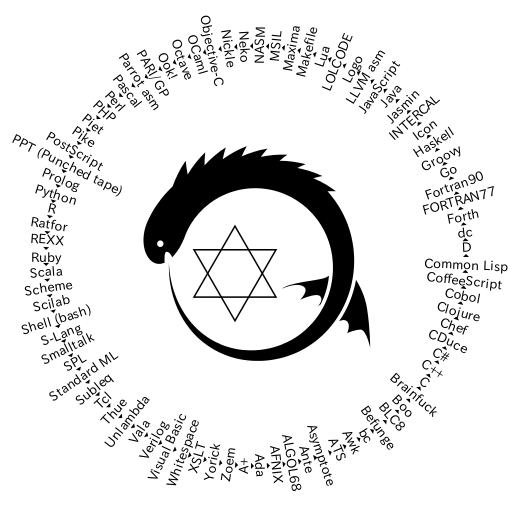
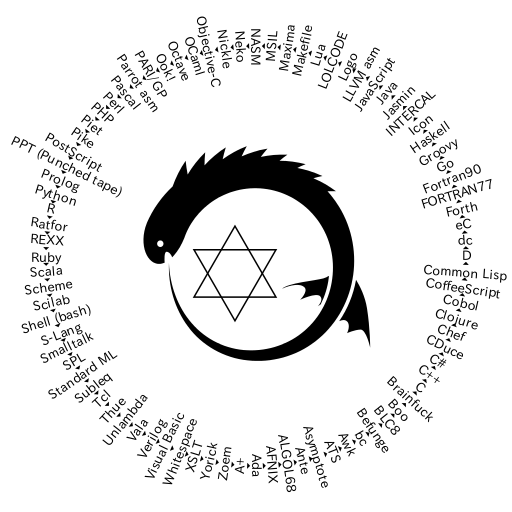
* the 84th language: eC

Changed region(s): [[0.0312, 0.0312, 1.0, 0.9688], [0.125, 0.5312, 0.1562, 0.5625], [0.0625, 0.4375, 0.0938, 0.4688]]

diff --git a/QR.rb b/QR.rb
@@ -17,48 +17,48 @@ g~dish.`n`nServes~1.`n")!~g                                                     
 CATION~DIVISION.""PROGRAM-                                                                       ID.~QR.""PROCEDURE~DIVISION."'DISP
 LA`x59](map~#(str"~~~~^"                                    "(.replac                                e~%1"^"""^"^"")"^"&")(re-seq~#
 ".{1,45}""#{e[%((f=(n)                              ->Array(n+1).jo!~"Y");con                       sole.log("%s",#{V[E[%((H-l!e"#{
-e["import~std.stdio;v                           oid~mX{H#{E["[#{%(~:~A~."#{g*9}"~;                   ~:~B~A~."~WRITE(*,*)'"~A~;~:~C
-~B~T`x59PE~."~'"~CR                         ~;~:~D~S"~#$D"~C~S^"~Z~^"(&"~C~S^"~#{e[%(                  package~ma!;import"fmt";func
-~mX{fmt.Pr!t#{E[%(                        Z'#{e[("ma!=putStr"+E[%(procedure~mX;i:=c:=0;s                :=#{E[%(.class~public~QR`n.
-super~#{$T="java/                       io/Pr!tStream"}`n.method~public~static~ma!([L#{S="               java/lang/"}SJ;)V~;]`n.lim
-it~stack~2`ngets                      tatic~#{S}System/out~L#$T;`nldc~"#{e[%(class~QR{publi               c~static~void~ma!(SJ[]v){
-SJ~c[]=new~SJ[9                      000],y="",z=y,s="#{z=t=(0..r=q=126).map{|n|[n,[]]};a="";              b=->n{a<<(n%78+55)%84+42
-};("s=#{E[%(@s                     =global[#{i=(s=%(PR~ "`x48AI^~1.2~PR~"VISIBLE^~"#{Q["Z"+E[%             (all:`n`t@echo~'#{d["l!e
-l:99999;Z#{E[%                    (.assembly~t{}.metho   d~static~void~MX{.entrypo!t~ldstr"#{e[%            (m:db`x60#{e[s="$Z#{E[%
-(Zf#{E["#impo                    rt"+M["Z_sJ"+E[%(s=t  o  ascii#{E["Z#{E[%(say"#{e["#$D(output);b            eg!~H(#{f((p="eval";%(
-$_="#{s=%(<?p                   hp~function~f($n){re  tur  n~str_repeat("Y",$n);};$f="f";$z=3+$w=            strlen($s=#{V[Q[E["!t~
-mX{H#{E[%((__       __         _______)dup~=/s(|~~~  ~~.~~  ~|)def(#{Q["qr:-H('#{Q[e[%(for~c~!"".j            o!(["say~'%s'^n"%l~fo
-r~l~!#{E[d[%(                 eval$s=%q(#$s)),?']]  }.split  ("^n")]):Z('cat("r=fput(char(%d))^n")'           %ord(c))`nZ('cat("end
-^n")'))],?']}'               ).",B]})                                     {9~7{exch~dup~1~and~79~mu           l~32~add~exch~2~idiv~
-3~1~roll~s~exch        ~2~  !dex~exch~  put~1~s  ub~dup~6~eq{1  ~sub}if  }repeat~s~=~pop~pop}forall~          =~quit)]};return~0;}"
-]],"{$f(",")}"]}       )*3;echo"^x89PNG  ^r^n^  x1a^n";$m="";$t  ="^xc  0^0^xff";for($i=-1;$i<128*$z          ;$m.=$c--?($w-$c||$i>
-$z)&&$i/$z<($c<$w?o   rd($s[(!t)($c/3)])  :$c  --%3+2)?$t[2].$t[  $c%  3%2].$t[$c%3]:"^0^0^0":"^0")$          c=++$i%$z;foreach(arr
-ay("I`x48DR".pack("NNCV", $w+2,128,8,2),"  I  DAT".gzcompress($m)  ,  "IEND")as$d)echo~pack("NA*N",s          trlen($d)-4,$d,crc32(
-$d));?>);(s+N*(-s.size%6) ).unpack("B*")[0   ].K(/.{6}/){n=$&.to_i   ~2;((n+14)/26*6+n+47).chr}}";s|          .|$n=ord$&;substr~unp
-ack(B8,chr$n-!t($n/32)*6- 41),2|eg;Z~pack  "  B*",$_).scan(/[~,-:  A  -z]+|(.)/){p="s++#{$1?"c     h          r~#{$1.ord}+e":$&+?+}
-;"+p};p),1){"'#$s',"}}'')  end."]}"`nend  )]}  ;quit"]};t=num2ce  ll(  b=11-ceil(s/               1          3  ));for~n=1:9m={};fo
-r~i=1:141f=@(x,y,n)repmat( ["Ook"~x~"~O  ok"~y  ~32],[1~abs(n)]  );m(i  )=[f(z=4                  6          ,   63,n)~f(q=z-(i<13)
-*13,q,i-13)~f(33,z,1)~f(63  ,z,n)];end  ;t(x)=m  (diff([0~s(x=  b==n)])  +13);end;Zf("%          %          s     ",t{:}))]]]})+N]}
-;"+N]}`x60`nglobal~_start`n _start:mo                                     v~edx,#{s.si           z          e      }`nmov~ecx,m`nmo
-v~ebx,1`nmov~eax,4`n!t~128`  nmov~ebx,0`nmov~eax,1  `n!t~12  8)]}"call~void~[mscorlib] System.C o          n       sole::Write(sJ)r
-et})]};quit();",?$].K(?'){"'  ^''"}}')].K(/[:"]/,":  ^0"),  /[~Y`t;"(){}`[`]]/]}"~PR~"`x4bT`x4 8          `         x58B`x59E~B`x59
-E)).size+1}x~i8]c"#{s.K(/[^"]  /){"^%`x58"%$&.ord}}^  00"  declare~i32@puts(i8*)def!e~i32@mX{%1          =          call~i32@puts(i
-8*getelementptr([#{i}x~i8]*@s,  i32~0,i32~0))ret~i32~  0  })]};typeof~Z=='function'?Z(s):conso          l           e.log('%s',s)")
-.bytes{|n|r,z=z[n]||(b[r/78];b[   r];q<6083&&z[n]=[q+=   1,[]];t[n])};b[r/78];b[r]}";!t~i=0,           n             =0,q=0;for(;++
-n<126;)c[n]=""+(char)n;for(;i<s.   length();){q=q*78+(s .charAt(i)-13)%84;if(i++%2>0){y=q<n           ?              c[q]:y;c[n++]=
-z+y.charAt(0);System.out.Z(z=c[q]    );q=0;}}}})]}"`n!vokevirtual~#$T/Zln(L#{S}SJ;)V`nret           urn`n.e          nd~method)+N]}
-;H("DO,1<-#"||*s);s?while~t:=ord(mo    ve(1))do{i+:=1;u:=-i;every~0to~7do{u:=u*2+t%2;t/           :=2};H("P          LEASE")^(i%4/3
-);H("DO,1SUB#"||i||"<-#"||((c-u)%256      ));c:=u;};H("PLEASEREADOUT,1^nPLEASEGIVEUP            ");end)]).tr(B,?&)]  }'.tr('&','YY'
-);)]};})]}"~DUP~FOR~S"~&A,&"~C~NE`x58T       ~S^"~&A)^",&"~C~0~DO~B~."~&char("~CO             UNT~.~."~),&'"~CR~LOOP  ~S^"~&^"^""~C
-~S"~end~#$D"~C~A~."~STOP"~CR~A~."~END"~CR        ~B`x59E~;~D~)}]pq"]};}"]}"))               ],'#{f(',')}']}))]}"))["  ~~~~^"~^".""S
-TOP~RUN."])](Zln(str"#{g*8}"s)))).reverse]}             ))]};}})]};}"                    ]]],"$(f(","))"]};for~i~!~range(len(s)):b~
-as~!t=s[i];a-=b;Z(('+'*-a~if~0>a~else'-'*a)+'.'                                       );a=b;).tr~B,?`x21]};K(/`x21/,"Y",s);for(Z"de
-f!e~void~f(n){^"00g,^";for(m=128;m;m/=2){^"00g,4,:^                              ";if(n/m%2<1)^"4+^";^",^";};^"4,:,^"}^"389**6+44*6
-+00p29*,^";";++j<=length(s);Z"f("n");")for(n=9;substr(s,j,                1)`x21=sZf("%c",++n););Z"^"4,:,@^"^nquit"})]],?']}');)]}"
-;FORiTO`~UPBtDO`~INTn:=ABSt[i];Z(~(50+n%64)+c+~(50+n%8MOD8)+c+~(50+nMOD8)+b+"`x4a"+a)OD]*"REPR"]}")]}");end;)]+"`nsys.exit~0",/[^{}
-]/]}}",35){y<<",`n"+$S;"%s"}}")+y}]]></#{U}></xsl:#{I}>"].K~N,'"&~VbLf~&"'}":s="~~~":For~i=0To~7:s~&=Chr(32-(Asc(c)>>7-i~And~1)*23)
-:Next:#{C}(s~&n~&Chr(9)&n~&"~~"):Next:#{C}(n~&n~&n):End~Sub:End~Module),3){%($H("%s",#$S);)+N}}end~endmodule)],?%]};return~0;}).rev
-erse],/[`[`]$]/],"[f~",?]]}"~^x60.&]k^n::=^na)]};Z"0~0~-1";)]]};),?']}';cr"]]]}"|sed~-E~-e~'s/([`x5eY]|Y.){1,120}/Zf("%s","^0");^n/
-g'],7){%(Zf("%s","#{d[d[$s],?']}")`n)}}quit)]}")),196){%(Z#$S;)}}})).gsub(/[!HJKXYZ^`~]/){[B*2,:write,B,:tring,:gsub,"ain()",B*4,:p
-rint,g,:in][$&.ord%47%12]})))*"")#_buffer_for_future_bug_fixes_#_buffer_for_future_bug_fixes_#_buffer_for_future_bug_fixes_#_buffer
+e["import~std.stdio;v                           oid~mX{H#{E["[#{"class~QR:Applicat                   ion{void~MX{#{f(%(~:~A~."#{g*9
+}"~;~:~B~A~."~WRITE                         (*,*)'"~A~;~:~C~B~T`x59PE~."~'"~CR~;~:~D~                  S"~#$D"~C~S^"~Z~^"(&"~C~S^"~
+#{e[%(package~ma!;                        import"fmt";func~mX{fmt.Pr!t#{E[%(Z'#{e[("ma!=                putStr"+E[%(procedure~mX;i:
+=c:=0;s:=#{E[%(.c                       lass~public~QR`n.super~#{$T="java/io/Pr!tStream"}`               n.method~public~static~ma!
+([L#{S="java/lan                      g/"}SJ;)V~;]`n.limit~stack~2`ngetstatic~#{S}System/ou               t~L#$T;`nldc~"#{e[%(class
+~QR{public~stat                      ic~void~ma!(SJ[]v){SJ~c[]=new~SJ[9000],y="",z=y,s="#{z=t              =(0..r=q=126).map{|n|[n,
+[]]};a="";b=->                     n{a<<(n%78+55)%84+42 };("s=#{E[%(@s=global[#{i=(s=%(PR~"`x4             8AI^~1.2~PR~"VISIBLE^~"#
+{Q["Z"+E[%(all                    :`n`t@echo~'#{d["l!e   l:99999;Z#{E[%(.assembly~t{}.method~sta            tic~void~MX{.entrypo!t~
+ldstr"#{e[%(m                    :db`x60#{e[s="$Z#{E[  %  (Zf#{E["#import"+M["Z_sJ"+E[%(s=toascii            #{E["Z#{E[%(say"#{e["#
+$D(output);be                   g!~H(#{f((p="eval";%  ($_  ="#{s=%(<?php~function~f($n){return~st            r_repeat("Y",$n);};$f=
+"f";$z=3+$w=s       tr         len($s=#{V[Q[E["!t~m  X{H#{  E[%((___________)dup~=/s(|~~~~~.~~~|)d            ef(#{Q["qr:-H('#{Q[e[
+%(for~c~!"".j                 o!(["say~'%s'^n"%l~f  or~l~!#  {E[d[%(eval$s=%q(#$s)),?']]}.split("^n           ")]):Z('cat("r=fput(c
+har(%d))^n")'%               ord(c))`                                     nZ('cat("end^n")'))],?']}           ').",B]}){9~7{exch~du
+p~1~and~79~mul~        32~  add~exch~2  ~idiv~3  ~1~roll~s~exc  h~2~!de  x~exch~put~1~sub~dup~6~eq{1          ~sub}if}repeat~s~=~po
+p~pop}forall~=~q       uit)]};return~0;  }"]],  "{$f(",")}"]})*  3;ech  o"^x89PNG^r^n^x1a^n";$m="";$          t="^xc0^0^xff";for($i
+=-1;$i<128*$z;$m.=$   c--?($w-$c||$i>$z)  &&$  i/$z<($c<$w?ord($  s[(  !t)($c/3)]):$c--%3+2)?$t[2].$          t[$c%3%2].$t[$c%3]:"^
+0^0^0":"^0")$c=++$i%$z;fo reach(array("I`  x  48DR".pack("NNCV",$  w  +2,128,8,2),"IDAT".gzcompress(          $m),"IEND")as$d)echo~
+pack("NA*N",strlen($d)-4, $d,crc32($d));?>   );(s+N*(-s.size%6)).u   npack("B*")[0].K(/.{6}/){n=$&.t          o_i~2;((n+14)/26*6+n+
+47).chr}}";s|.|$n=ord$&;s ubstr~unpack(B8  ,  chr$n-!t($n/32)*6-4  1  ),2|eg;Z~pack"B*",$_).sc     a          n(/[~,-:A-z]+|(.)/){p
+="s++#{$1?"chr~#{$1.ord}+  e":$&+?+};"+p  };p  ),1){"'#$s',"}}''  )en  d."]}"`nend)               ]          }  ;quit"]};t=num2cell
+(b=11-ceil(s/13));for~n=1: 9m={};for~i=  1:141  f=@(x,y,n)repma  t(["O  ok"~x~"~                  O          o   k"~y~32],[1~abs(n)
+]);m(i)=[f(z=46,63,n)~f(q=  z-(i<13)*1  3,q,i-1  3)~f(33,z,1)~  f(63,z,  n)];end;t(x)=m          (          d     iff([0~s(x=b==n)]
+)+13);end;Zf("%%s",t{:}))]] ]})+N]};"                                     +N]}`x60`ngl           o          b      al~_start`n_star
+t:mov~edx,#{s.size}`nmov~ec  x,m`nmov~ebx,1`nmov~e  ax,4`n!  t~128`nmov~ebx,0`nmov~eax ,1`n!t~1 2          8       )]}"call~void~[m
+scorlib]System.Console::Writ  e(sJ)ret})]};quit();"  ,?$].  K(?'){"'^''"}}')].K(/[:"]/,":^0"), /          [         ~Y`t;"(){}`[`]]
+/]}"~PR~"`x4bT`x48`x58B`x59E~  B`x59E)).size+1}x~i8]  c"#  {s.K(/[^"]/){"^%`x58"%$&.ord}}^00"de          c          lare~i32@puts(i
+8*)def!e~i32@mX{%1=call~i32@pu  ts(i8*getelementptr([  #  {i}x~i8]*@s,i32~0,i32~0))ret~i32~0})          ]           };typeof~Z=='fu
+nction'?Z(s):console.log('%s',s   )").bytes{|n|r,z=z[n   ]||(b[r/78];b[r];q<6083&&z[n]=[q+=1           ,             []];t[n])};b[r
+/78];b[r]}";!t~i=0,n=0,q=0;for(;   ++n<126;)c[n]=""+(ch ar)n;for(;i<s.length();){q=q*78+(s.           c              harAt(i)-13)%8
+4;if(i++%2>0){y=q<n?c[q]:y;c[n++]    =z+y.charAt(0);System.out.Z(z=c[q]);q=0;}}}})]}"`n!v           okevirt          ual~#$T/Zln(L#
+{S}SJ;)V`nreturn`n.end~method)+N]};    H("DO,1<-#"||*s);s?while~t:=ord(move(1))do{i+:=1           ;u:=-i;ev          ery~0to~7do{u:
+=u*2+t%2;t/:=2};H("PLEASE")^(i%4/3);      H("DO,1SUB#"||i||"<-#"||((c-u)%256));c:=u;            };H("PLEASEREADOUT,  1^nPLEASEGIVEU
+P");end)]).tr(B,?&)]}'.tr('&','YY');)]       };})]}"~DUP~FOR~S"~&A,&"~C~NE`x58T~S             ^"~&A)^",&"~C~0~DO~B~.  "~&char("~COU
+NT~.~."~),&'"~CR~LOOP~S^"~&^"^""~C~S"~end        ~#$D"~C~A~."~STOP"~CR~A~."~E               ND"~CR~B`x59E~;~D~),15){  "Pr!t#$S;"}}}
+}"}]pq"]};}"]}"))],'#{f(',')}']}))]}"))["~~             ~~^"~^".""STO                    P~RUN."])](Zln(str"#{g*8}"s)))).reverse]})
+)]};}})]};}"]]],"$(f(","))"]};for~i~!~range(len                                       (s)):b~as~!t=s[i];a-=b;Z(('+'*-a~if~0>a~else'
+-'*a)+'.');a=b;).tr~B,?`x21]};K(/`x21/,"Y",s);for(Z                              "def!e~void~f(n){^"00g,^";for(m=128;m;m/=2){^"00g,
+4,:^";if(n/m%2<1)^"4+^";^",^";};^"4,:,^"}^"389**6+44*6+00p                29*,^";";++j<=length(s);Z"f("n");")for(n=9;substr(s,j,1)`
+x21=sZf("%c",++n););Z"^"4,:,@^"^nquit"})]],?']}');)]}";FORiTO`~UPBtDO`~INTn:=ABSt[i];Z(~(50+n%64)+c+~(50+n%8MOD8)+c+~(50+nMOD8)+b+"
+`x4a"+a)OD]*"REPR"]}")]}");end;)]+"`nsys.exit~0",/[^{}]/]}}",35){y<<",`n"+$S;"%s"}}")+y}]]></#{U}></xsl:#{I}>"].K~N,'"&~VbLf~&"'}":
+s="~~~":For~i=0To~7:s~&=Chr(32-(Asc(c)>>7-i~And~1)*23):Next:#{C}(s~&n~&Chr(9)&n~&"~~"):Next:#{C}(n~&n~&n):End~Sub:End~Module),3){%(
+$H("%s",#$S);)+N}}end~endmodule)],?%]};return~0;}).reverse],/[`[`]$]/],"[f~",?]]}"~^x60.&]k^n::=^na)]};Z"0~0~-1";)]]};),?']}';cr"]]
+]}"|sed~-E~-e~'s/([`x5eY]|Y.){1,120}/Zf("%s","^0");^n/g'],7){%(Zf("%s","#{d[d[$s],?']}")`n)}}quit)]}")),196){%(Z#$S;)}}})).gsub(/[!
+HJKXYZ^`~]/){[B*2,:write,B,:tring,:gsub,"ain()",B*4,:print,g,:in][$&.ord%47%12]})))*"")#_buffer_for_future_bug_fixes_#_buffer_for_f
 ##########################  Quine Relay -- Copyright (c) 2013, 2014 Yusuke Endoh (@mametter), @hirekoke  #########################)

diff --git a/src/dot.travis.yml.gen.rb b/src/dot.travis.yml.gen.rb
@@ -19,6 +19,9 @@ yaml["env"] = ["PATH=/usr/games:$PATH"]
 yaml["before_install"] = [
   "sudo apt-get update -qq",
   'sudo apt-get -o Dpkg::Options::="--force-confdef" -o Dpkg::Options::="--force-confold" dist-upgrade -qq',
+  "sudo add-apt-repository ppa:ecere-team/ppa",
+  "sudo apt-get update -qq",
+  'sudo apt-get -o Dpkg::Options::="--force-confdef" -o Dpkg::Options::="--force-confold" dist-upgrade -qq',
   "sudo apt-get install -qq #{ [*apts.flatten.compact.uniq, *other_packages].sort * " " }",
   "sudo service postgresql stop",
   "sudo service mysql stop",

diff --git a/src/code-gen.rb b/src/code-gen.rb
@@ -506,6 +506,14 @@ class Forth_FORTRAN77_Fortran90 < CodeGen
   end
 end
 
+class EC < CodeGen
+  Name = "eC"
+  File = "QR.ec"
+  Cmd = "mv QR.c QR.c.bak && ecp -c QR.ec -o QR.sym && ecc -c QR.ec -o QR.c && ecs -console QR.sym QR.imp -o QR.main.ec && ecp -c QR.main.ec -o QR.main.sym && ecc -c QR.main.ec -o QR.main.c && gcc -o QR QR.c QR.main.c -lecereCOM && mv QR.c.bak QR.c && ./QR > OUTFILE"
+  Apt = "ecere-sdk"
+  Code = %q("class QR:Application{void Main(){#{f(PREV,15){"Print#$S;"}}}}")
+end
+
 class Dc < CodeGen
   Name = "dc"
   File = "QR.dc"

diff --git a/src/README.md.gen.rb b/src/README.md.gen.rb
@@ -47,6 +47,8 @@ cmds = cmds.zip(srcs.drop(1) + ["QR.rb"]).map do |cmd, src|
   cmd = cmd.gsub("$(CC)", "gcc")
   cmd = cmd.gsub("$(CXX)", "g++")
 
+  cmd = cmd.gsub(/.{60,}?&&/, "\\0\n     ")
+
   cmd
 end
 cmds[-1].gsub!("QR.rb", "QR2.rb")

diff --git a/README.md b/README.md
@@ -7,7 +7,7 @@
 This is a Ruby program that generates
 Scala program that generates
 Scheme program that generates
-...(through 83 languages in total)...
+...(through 84 languages in total)...
 REXX program that generates
 the original Ruby code again.
 
@@ -29,13 +29,14 @@ First, you have to type the following apt-get command to install all of them.
 
     $ sudo apt-get install afnix algol68g aplus-fsf asymptote \
       ats-lang-anairiats bash bc bf boo bsdgames cduce clisp clojure1.4 \
-      cmake coffeescript dc f2c fp-compiler g++ gauche gawk gcc gdc gforth \
-      gfortran ghc ghostscript gnat gnu-smalltalk gobjc golang groff groovy \
-      icont iconx intercal iverilog jasmin-sable libgd2-xpm-dev libpng12-dev \
-      llvm lua5.2 make maxima mlton mono-devel mono-mcs mono-vbnc nasm neko \
-      nickle ocaml octave open-cobol openjdk-6-jdk pari-gp parrot perl \
-      php5-cli pike7.8 python r-base ratfor regina-rexx rhino ruby2.0 scala \
-      scilab slsh spl-core swi-prolog tcl ucblogo valac xsltproc yorick zoem
+      cmake coffeescript dc ecere-sdk f2c fp-compiler g++ gauche gawk gcc \
+      gdc gforth gfortran ghc ghostscript gnat gnu-smalltalk gobjc golang \
+      groff groovy icont iconx intercal iverilog jasmin-sable libgd2-xpm-dev \
+      libpng12-dev llvm lua5.2 make maxima mlton mono-devel mono-mcs \
+      mono-vbnc nasm neko nickle ocaml octave open-cobol openjdk-6-jdk \
+      pari-gp parrot perl php5-cli pike7.8 python r-base ratfor regina-rexx \
+      rhino ruby2.0 scala scilab slsh spl-core swi-prolog tcl ucblogo valac \
+      xsltproc yorick zoem
 
 Then, you have to build the bundled interpreters.
 
@@ -82,13 +83,17 @@ To run it on Ubuntu 12.04 LTS, you might want to refer to `.travis.yml`.
     $ g++ -o QR QR.cpp && ./QR > QR.cs
     $ mcs QR.cs && mono QR.exe > QR.cd
     $ cduce QR.cd > QR.chef
-    $ PERL5LIB=vendor/local/lib/perl5 compilechef QR.chef QR.chef.pl && perl QR.chef.pl > QR.clj
+    $ PERL5LIB=vendor/local/lib/perl5 compilechef QR.chef QR.chef.pl &&
+      perl QR.chef.pl > QR.clj
     $ clojure QR.clj > QR.cob
     $ cobc -O2 -x QR.cob && ./QR > QR.coffee
     $ coffee QR.coffee > QR.lisp
     $ clisp QR.lisp > QR.d
     $ gdc -o QR QR.d && ./QR > QR.dc
-    $ dc QR.dc > QR.fs
+    $ dc QR.dc > QR.ec
+    $ ecp -c QR.ec -o QR.sym && ecc -c QR.ec -o QR.c && ecs -console QR.sym QR.imp -o QR.main.ec &&
+      ecp -c QR.main.ec -o QR.main.sym && ecc -c QR.main.ec -o QR.main.c &&
+      gcc -o QR QR.c QR.main.c -lecereCOM && ./QR > QR.fs
     $ gforth QR.fs > QR.f
     $ f2c QR.f && gcc -o QR QR.c -L/usr/lib -lf2c -lm && ./QR > QR.f90
     $ gfortran -o QR QR.f90 && ./QR > QR.go
@@ -201,46 +206,47 @@ I used the following Ubuntu deb packages to test this program.
 42 |Common Lisp        |clisp              |1:2.49-9ubuntu1
 43 |D                  |gdc                |4.9.1-4ubuntu2
 44 |dc                 |dc                 |1.06.95-9
-45 |Forth              |gforth             |0.7.2+dfsg1-1
-46 |FORTRAN77          |f2c                |20100827-1
-47 |Fortran90          |gfortran           |4:4.9.1-4ubuntu2
-48 |Go                 |golang             |2:1.2.1-2ubuntu1
-49 |Groovy             |groovy             |2.0.0~beta2+isreally1.8.6-4ubuntu1
-50 |Haskell            |ghc                |7.6.3-19
-51 |Icon               |icont              |9.4.3-4.2ubuntu1
+45 |eC                 |ecere-sdk          |0.44.10-0ubuntu1
+46 |Forth              |gforth             |0.7.2+dfsg1-1
+47 |FORTRAN77          |f2c                |20100827-1
+48 |Fortran90          |gfortran           |4:4.9.1-4ubuntu2
+49 |Go                 |golang             |2:1.2.1-2ubuntu1
+50 |Groovy             |groovy             |2.0.0~beta2+isreally1.8.6-4ubuntu1
+51 |Haskell            |ghc                |7.6.3-19
+52 |Icon               |icont              |9.4.3-4.2ubuntu1
    |                   |iconx              |9.4.3-4.2ubuntu1
-52 |INTERCAL           |intercal           |29:0.29-3
-53 |Jasmin             |jasmin-sable       |2.4.0-4
-54 |Java               |openjdk-6-jdk      |6b33-1.13.5-1ubuntu1
-55 |JavaScript         |rhino              |1.7R4-3
-56 |LLVM asm           |llvm               |1:3.5-23ubuntu1
-57 |Logo               |ucblogo            |5.5-2.1
-58 |LOLCODE            |*N/A*              |-
-59 |Lua                |lua5.2             |5.2.3-1
-60 |Makefile           |make               |4.0-8
-61 |Maxima             |maxima             |5.33.0-14
-62 |MSIL               |mono-devel         |3.2.8+dfsg-4ubuntu2
-63 |NASM               |nasm               |2.11-1
-64 |Neko               |neko               |2.0.0-3
-65 |Nickle             |nickle             |2.77-1
-66 |Objective-C        |gobjc              |4:4.9.1-4ubuntu2
-67 |OCaml              |ocaml              |4.01.0-4ubuntu1
-68 |Octave             |octave             |3.8.1-1ubuntu1
-69 |Ook!               |*N/A*              |-
-70 |PARI/GP            |pari-gp            |2.7.1-1
-71 |Parrot asm         |parrot             |6.3.0-1
-72 |Pascal             |fp-compiler        |2.6.4+dfsg-3
-73 |Perl               |perl               |5.20.1-1
-74 |PHP                |php5-cli           |5.5.12+dfsg-2ubuntu4.1
-75 |Piet               |*N/A*              |-
-76 |Pike               |pike7.8            |7.8.866-3
-77 |PostScript         |ghostscript        |9.14~dfsg-0ubuntu3
-78 |PPT (Punched tape) |bsdgames           |2.17-22
-79 |Prolog             |swi-prolog         |6.6.4-2ubuntu1
-80 |Python             |python             |2.7.8-1
-81 |R                  |r-base             |3.1.1-1
-82 |Ratfor             |ratfor             |1.0-15
-83 |REXX               |regina-rexx        |3.6-2
+53 |INTERCAL           |intercal           |29:0.29-3
+54 |Jasmin             |jasmin-sable       |2.4.0-4
+55 |Java               |openjdk-6-jdk      |6b33-1.13.5-1ubuntu1
+56 |JavaScript         |rhino              |1.7R4-3
+57 |LLVM asm           |llvm               |1:3.5-23ubuntu1
+58 |Logo               |ucblogo            |5.5-2.1
+59 |LOLCODE            |*N/A*              |-
+60 |Lua                |lua5.2             |5.2.3-1
+61 |Makefile           |make               |4.0-8
+62 |Maxima             |maxima             |5.33.0-14
+63 |MSIL               |mono-devel         |3.2.8+dfsg-4ubuntu2
+64 |NASM               |nasm               |2.11-1
+65 |Neko               |neko               |2.0.0-3
+66 |Nickle             |nickle             |2.77-1
+67 |Objective-C        |gobjc              |4:4.9.1-4ubuntu2
+68 |OCaml              |ocaml              |4.01.0-4ubuntu1
+69 |Octave             |octave             |3.8.1-1ubuntu1
+70 |Ook!               |*N/A*              |-
+71 |PARI/GP            |pari-gp            |2.7.1-1
+72 |Parrot asm         |parrot             |6.3.0-1
+73 |Pascal             |fp-compiler        |2.6.4+dfsg-3
+74 |Perl               |perl               |5.20.1-1
+75 |PHP                |php5-cli           |5.5.12+dfsg-2ubuntu4.1
+76 |Piet               |*N/A*              |-
+77 |Pike               |pike7.8            |7.8.866-3
+78 |PostScript         |ghostscript        |9.14~dfsg-0ubuntu3
+79 |PPT (Punched tape) |bsdgames           |2.17-22
+80 |Prolog             |swi-prolog         |6.6.4-2ubuntu1
+81 |Python             |python             |2.7.8-1
+82 |R                  |r-base             |3.1.1-1
+83 |Ratfor             |ratfor             |1.0-15
+84 |REXX               |regina-rexx        |3.6-2
 
 Note that some languages are not available in Ubuntu (marked as *N/A*).
 This repository includes their implementations in `vendor/`.
